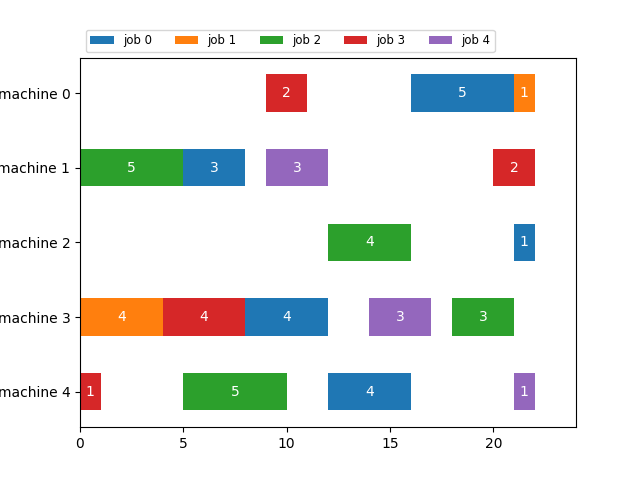
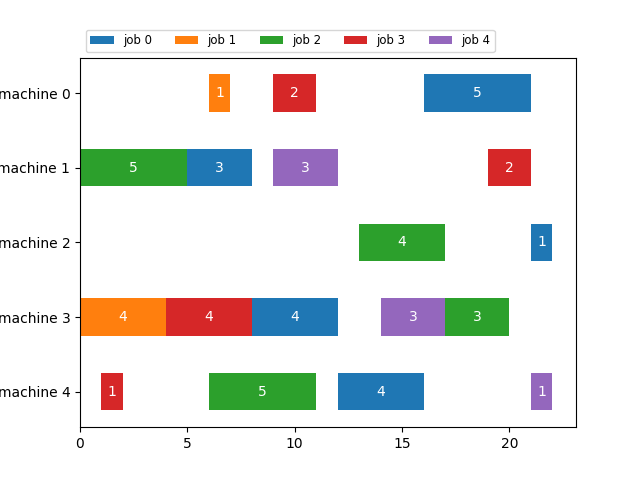
fix task id

diff --git a/utils/utils.py b/utils/utils.py
@@ -126,36 +126,3 @@ def write_solution_to_file(data, solution: dict, completion: int,
 
     print(f'\nSaved schedule to '
           f'{os.path.join(os.getcwd(), solution_file_path)}')
-
-
-def write_solution_to_file_1(data, solution: dict, completion: int,
-                             solution_file_path: str) -> None:
-    """Write solution to a file.
-
-    Args:
-        data: a class containing JSS data
-        solution: a dictionary containing solution
-        completion: completion time or objective function of the the JSS problem
-        solution_file_path: path to the output solution file. If doesn't exist
-                                a new file is created
-
-    """
-
-    with open(solution_file_path, 'w') as f:
-        f.write('#Number of jobs: ' + str(data.num_jobs) + '\n')
-        f.write('#Number of machines: ' + str(data.num_machines) + '\n')
-        f.write('#Completion time: ' + str(
-            completion) + '\n\n')
-        f.write('#' + '_' * 150 + '\n')
-
-        for j in range(data.num_jobs):
-            print()
-            f.write('   '.
-                    join([str(int(solution[(j, i)])) + '   ' +
-                          str(data.task_duration[
-                                  (j, data.machine_task[(j, i)])])
-                          for i in range(data.num_machines)]) + '\n')
-        f.close()
-
-        print(f'Saved schedule to '
-              f'{os.path.join(os.getcwd(), solution_file_path)}')

diff --git a/job_shop_scheduler.py b/job_shop_scheduler.py
@@ -139,7 +139,7 @@ class JSSCQM():
         self.best_sample = best_samples.first.sample
 
         self.solution = {
-            (j, i): (data.task_machine[(j, i)],
+            (j, i): (data.machine_task[(j, i)],
                      self.best_sample[self.x[(j, i)].variables[0]],
                      data.task_duration[(j, data.machine_task[(j, i)])])
             for i in range(data.num_machines) for j in range(data.num_jobs)}

diff --git a/README.md b/README.md
@@ -77,11 +77,11 @@ The program produces a solution schedule like this:
                   machine 0               machine 1               machine 2               machine 3               machine 4       
   job id    task    start    dur    task    start    dur    task    start    dur    task    start    dur    task    start    dur
 --------  ------  -------  -----  ------  -------  -----  ------  -------  -----  ------  -------  -----  ------  -------  -----
-       0       1       16      5       3        5      3       4       21      1       0        8      4       2       12      4
-       1       3       21      1       2       14      0       1        9      0       0        0      4       4       22      0
-       2       1       16      0       4        0      5       2       12      4       0       18      3       3        5      5
-       3       4        9      2       3       20      2       0       14      0       2        4      4       1        0      1
-       4       1       17      0       3        9      3       0       20      0       2       14      3       4       21      1
+       0       3       16      5       0        5      3       4       21      1       1        8      4       2       12      4
+       1       3        6      1       2        5      0       1        4      0       0        0      4       4        9      0
+       2       3       17      0       0        0      5       2       13      4       4       17      3       1        6      5
+       3       2        9      2       4       19      2       3       14      0       1        4      4       0        1      1
+       4       2       18      0       0        9      3       3       21      0       1       14      3       4       21      1
 ```
 
 The following graphic is an illustration of this solution.
